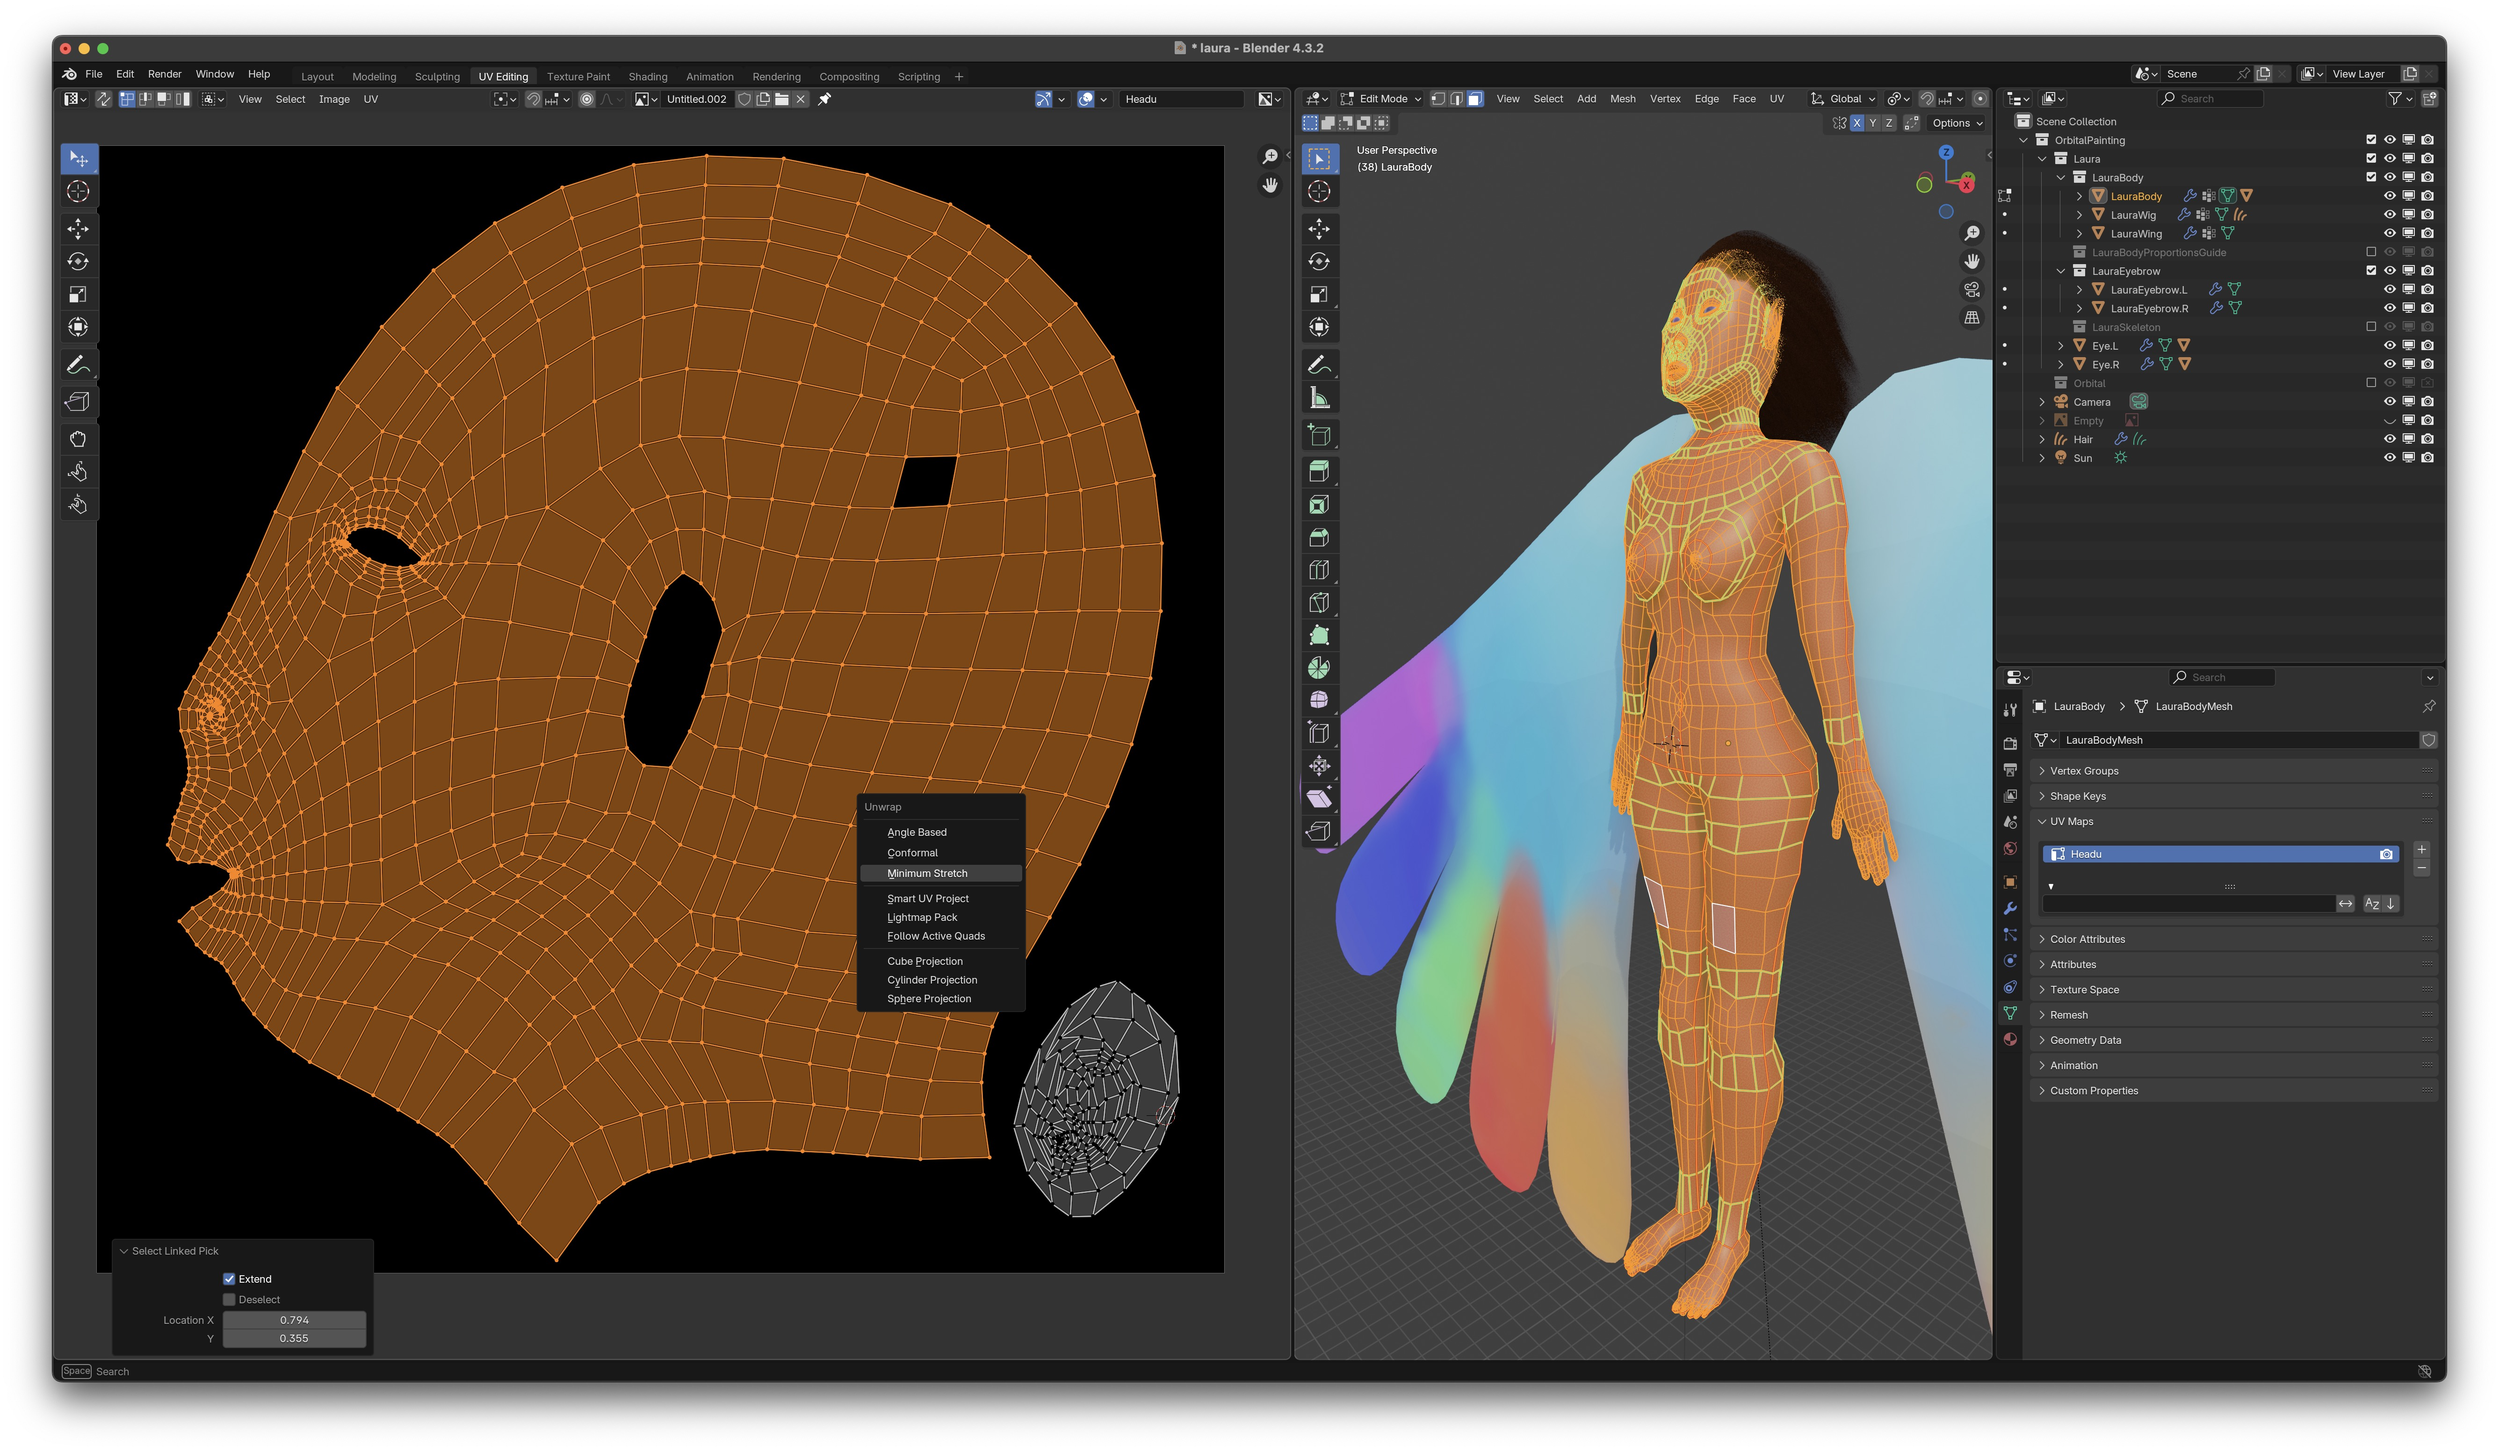
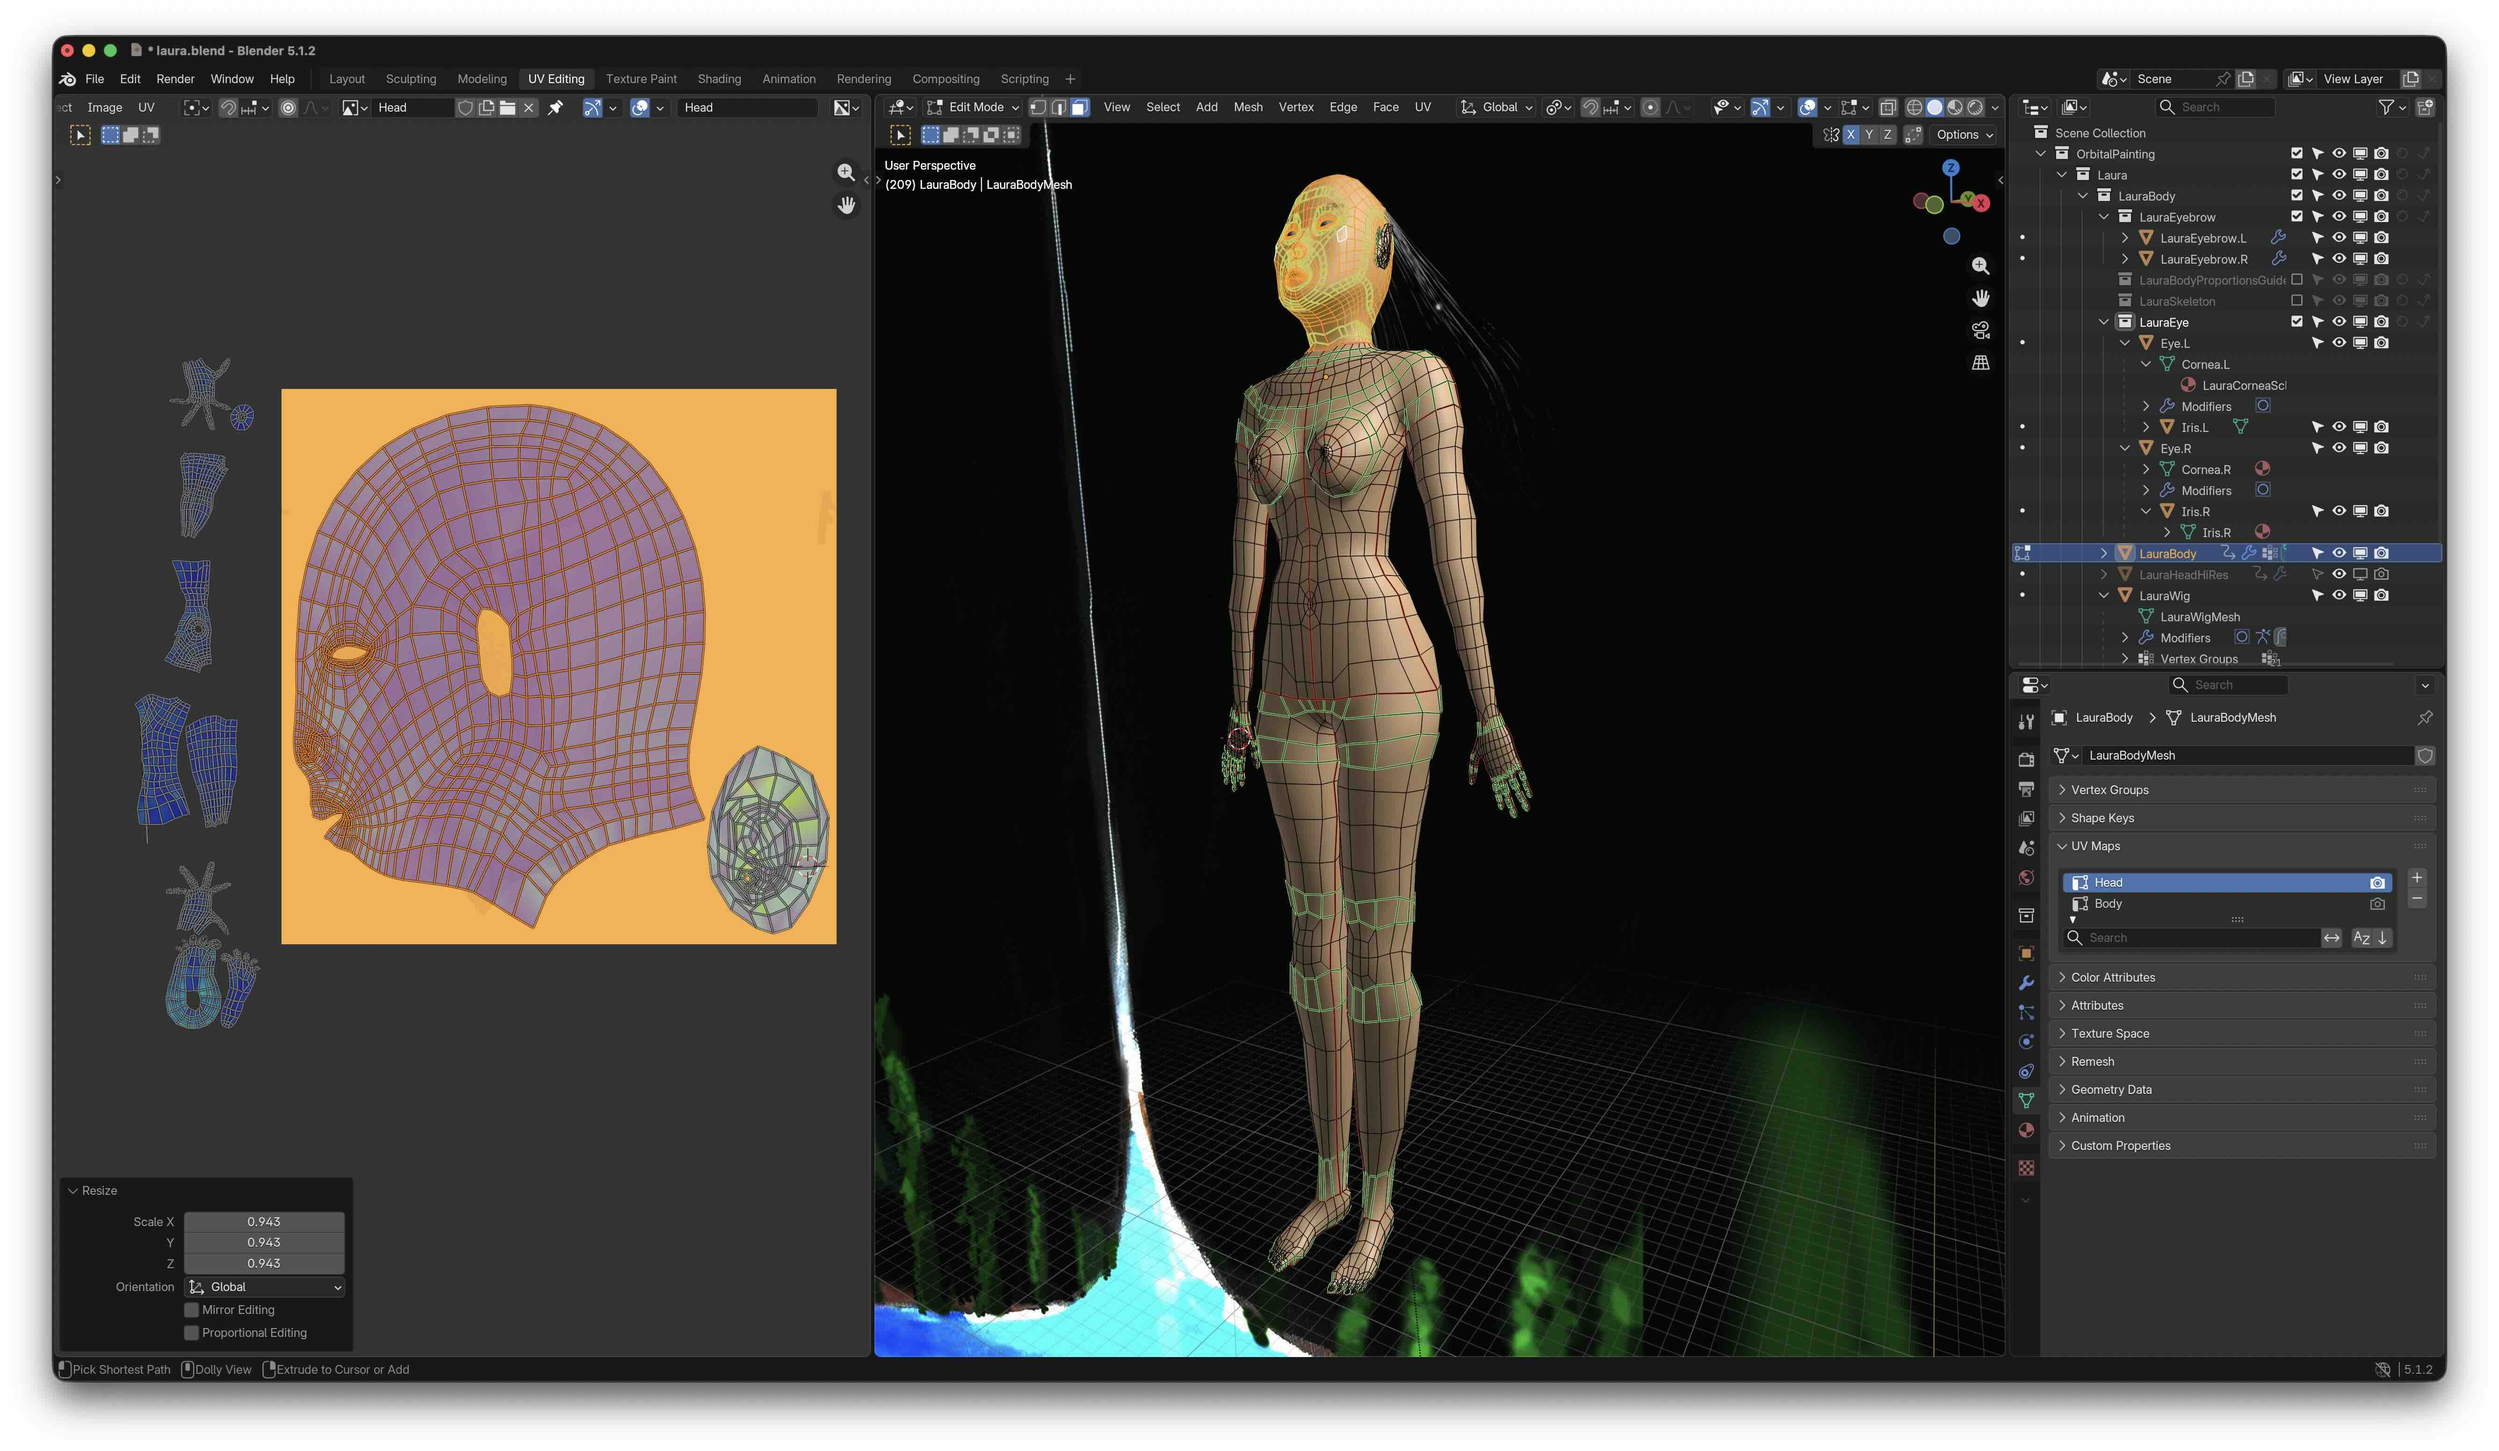
Update UV mapping

diff --git a/Art/BlenderWorkedExamples.html b/Art/BlenderWorkedExamples.html
@@ -1389,7 +1389,7 @@
                     <img class="centeredsmallest" alt="X" src="Images/BadHandUnwrapIslandsRight.jpeg">
                     </p>
 
-                    <h6>Moving the body islands out of the image, keeping head and ears</h6>
+                    <h6>UV Mapping for the Head</h6>
 
                     <p>
                     Disable <em class="hotkey">Proportional Editing</em> so when you drag the selected mesh outside the image, pieces of the other
@@ -1409,7 +1409,7 @@
 
                     <img class="centered" src="Images/UVHeadMeshFinal.jpg" alt="">
 
-                    <h6>Unwrapping Only the Head Island a Second Time, but With Better Sampling</h6>
+                    <h6>Unwrapping Only the Head a Second Time, but With Better Sampling</h6>
 
                     In the left panel, I clicked on an edge in the head mesh, then selected the entire head
                     using <em class="hotkey">L</em> and then did a second UV unwrap but this time using 
@@ -4424,7 +4424,7 @@ Select the <em class="hotkey">density brush</em>,
                     Copyright &copy; 1986-2026 by Sean Erik O'Connor.
                     All Rights Reserved.
                     &nbsp;&nbsp;&nbsp;
-                    last updated 01 Jul 26.
+                    last updated 02 Jul 26.
                 </p>
             </footer>
         </div> <!-- wrapper -->
